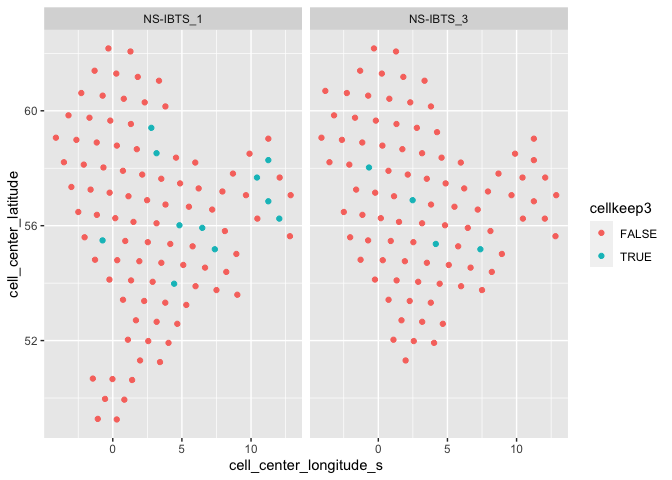
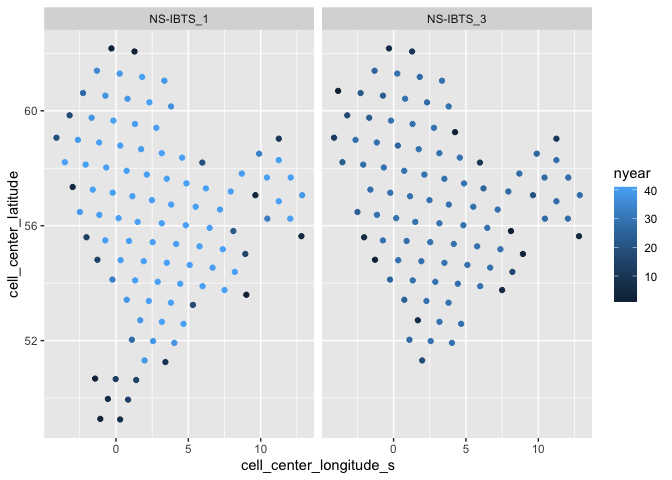
North Sea: add plot of worst-to-best sampled cells and years

diff --git a/data_prep_code/species/explore_NorthSea_trimming.md b/data_prep_code/species/explore_NorthSea_trimming.md
@@ -4,12 +4,16 @@ Exploring North Sea data trimming
   - [Load data](#load-data)
   - [Standardize trawl footprint](#standardize-trawl-footprint)
       - [Hex size 8](#hex-size-8)
+          - [Plot num hauls per cell and
+            year](#plot-num-hauls-per-cell-and-year)
           - [Trim out years with \<70% cells in a
             survey](#trim-out-years-with-70-cells-in-a-survey)
           - [Plot num years by cell](#plot-num-years-by-cell)
           - [Mark cells sampled \>=3x each remaining
             year](#mark-cells-sampled-3x-each-remaining-year)
       - [Hex size 7](#hex-size-7)
+          - [Plot num hauls per cell and
+            year](#plot-num-hauls-per-cell-and-year-1)
           - [Trim out years with \<70% cells in a
             survey](#trim-out-years-with-70-cells-in-a-survey-1)
           - [Plot num years by cell](#plot-num-years-by-cell-1)
@@ -157,6 +161,33 @@ unique_latlon[,cell_center_longitude_s := cellcenters$lon_deg][,cell_center_lati
 FishGlob.dg <- merge(FishGlob, unique_latlon, by = c("latitude", "longitude_s"), all.x = TRUE)
 ```
 
+### Plot num hauls per cell and year
+
+``` r
+# make a list of all unique year x cell x survey
+year_cell_count.dt <- as.data.table(expand.grid(cell = unique(FishGlob.dg$cell), 
+                                                year = unique(FishGlob.dg$year), 
+                                                survey_season = unique(FishGlob.dg$survey_season))) 
+
+# calc num hauls per year x cell x survey, then merge to full list
+temp <- FishGlob.dg[, .(nhaul = length(unique(haul_id))), by = .(cell, year, survey_season)]
+year_cell_count.dt <- merge(year_cell_count.dt, temp, all.x = TRUE)
+year_cell_count.dt[is.na(nhaul), nhaul := 0] # fill in for year x cell x survey that aren't present
+
+year_order <- year_cell_count.dt[, .(avehaul = mean(nhaul)), by = year][order(avehaul),]$year
+cell_order <- year_cell_count.dt[, .(avehaul = mean(nhaul)), by = cell][order(avehaul),]$cell
+
+year_cell_count.dt[, year := factor(year, levels = year_order)]
+year_cell_count.dt[, cell := factor(cell, levels = cell_order)]
+
+ggplot(year_cell_count.dt[nhaul > 0,], aes(year, cell, color = nhaul)) +
+  geom_point()+ 
+  theme(axis.text.x = element_text(angle = 90, vjust = 0.5, hjust=1),
+        axis.text.y = element_text(size = 4)) 
+```
+
+![](explore_NorthSea_trimming_files/figure-gfm/unnamed-chunk-1-1.png)<!-- -->
+
 ### Trim out years with \<70% cells in a survey
 
 yearkeep70 column == FALSE for years to trim out
@@ -187,7 +218,7 @@ ggplot(yearcell_table, aes(year, cell_center_latitude, color = nhaul)) +
   facet_grid(~survey_season)
 ```
 
-![](explore_NorthSea_trimming_files/figure-gfm/unnamed-chunk-1-1.png)<!-- -->
+![](explore_NorthSea_trimming_files/figure-gfm/unnamed-chunk-2-1.png)<!-- -->
 
 ``` r
 # color by keep or not at 70% threshold
@@ -196,7 +227,7 @@ ggplot(yearcell_table, aes(year, cell_center_latitude, color = yearkeep70)) +
   facet_grid(~survey_season)
 ```
 
-![](explore_NorthSea_trimming_files/figure-gfm/unnamed-chunk-1-2.png)<!-- -->
+![](explore_NorthSea_trimming_files/figure-gfm/unnamed-chunk-2-2.png)<!-- -->
 
 ### Plot num years by cell
 
@@ -213,7 +244,7 @@ ggplot(cell_table, aes(cell_center_longitude_s, cell_center_latitude, color = ny
   facet_grid(~survey_season)
 ```
 
-![](explore_NorthSea_trimming_files/figure-gfm/unnamed-chunk-2-1.png)<!-- -->
+![](explore_NorthSea_trimming_files/figure-gfm/unnamed-chunk-3-1.png)<!-- -->
 
 ``` r
 ggplot(cell_table, aes(cell_center_longitude_s, cell_center_latitude, color = allyrs)) +
@@ -221,7 +252,7 @@ ggplot(cell_table, aes(cell_center_longitude_s, cell_center_latitude, color = al
   facet_grid(~survey_season)
 ```
 
-![](explore_NorthSea_trimming_files/figure-gfm/unnamed-chunk-2-2.png)<!-- -->
+![](explore_NorthSea_trimming_files/figure-gfm/unnamed-chunk-3-2.png)<!-- -->
 
 ### Mark cells sampled \>=3x each remaining year
 
@@ -250,7 +281,7 @@ ggplot(FishGlob.cell[yearkeep70 == TRUE][!duplicated(cbind(cell, survey_season))
   facet_grid(~survey_season)
 ```
 
-![](explore_NorthSea_trimming_files/figure-gfm/unnamed-chunk-3-1.png)<!-- -->
+![](explore_NorthSea_trimming_files/figure-gfm/unnamed-chunk-4-1.png)<!-- -->
 
 ## Hex size 7
 
@@ -271,6 +302,35 @@ unique_latlon7[,cell_center_longitude_s := cellcenters7$lon_deg][,cell_center_la
 #link centers back to main data table
 FishGlob.dg7 <- merge(FishGlob, unique_latlon7, by = c("latitude", "longitude_s"), all.x = TRUE)
 ```
+
+### Plot num hauls per cell and year
+
+``` r
+# make a list of all unique year x cell x survey
+year_cell_count.dt7 <- as.data.table(expand.grid(cell = unique(FishGlob.dg7$cell), 
+                                                year = unique(FishGlob.dg7$year), 
+                                                survey_season = unique(FishGlob.dg7$survey_season))) 
+
+# calc num hauls per year x cell x survey, then merge to full list
+temp7 <- FishGlob.dg7[, .(nhaul = length(unique(haul_id))), by = .(cell, year, survey_season)]
+year_cell_count.dt7 <- merge(year_cell_count.dt7, temp7, all.x = TRUE)
+year_cell_count.dt7[is.na(nhaul), nhaul := 0] # fill in for year x cell x survey that aren't present
+
+# calculate the most to least sampled cells and years
+year_order7 <- year_cell_count.dt7[, .(avehaul = mean(nhaul)), by = year][order(avehaul),]$year
+cell_order7 <- year_cell_count.dt7[, .(avehaul = mean(nhaul)), by = cell][order(avehaul),]$cell
+
+# set the factor order by ave number of hauls
+year_cell_count.dt7[, year := factor(year, levels = year_order7)]
+year_cell_count.dt7[, cell := factor(cell, levels = cell_order7)]
+
+ggplot(year_cell_count.dt7[nhaul > 0,], aes(year, cell, color = nhaul)) +
+  geom_point()+ 
+  theme(axis.text.x = element_text(angle = 90, vjust = 0.5, hjust=1),
+        axis.text.y = element_text(size = 4)) 
+```
+
+![](explore_NorthSea_trimming_files/figure-gfm/unnamed-chunk-5-1.png)<!-- -->
 
 ### Trim out years with \<70% cells in a survey
 
@@ -302,7 +362,7 @@ ggplot(yearcell_table7, aes(year, cell_center_latitude, color = nhaul)) +
   facet_grid(~survey_season)
 ```
 
-![](explore_NorthSea_trimming_files/figure-gfm/unnamed-chunk-4-1.png)<!-- -->
+![](explore_NorthSea_trimming_files/figure-gfm/unnamed-chunk-6-1.png)<!-- -->
 
 ``` r
 # color by keep or not at 70% threshold
@@ -311,7 +371,7 @@ ggplot(yearcell_table7, aes(year, cell_center_latitude, color = yearkeep70)) +
   facet_grid(~survey_season)
 ```
 
-![](explore_NorthSea_trimming_files/figure-gfm/unnamed-chunk-4-2.png)<!-- -->
+![](explore_NorthSea_trimming_files/figure-gfm/unnamed-chunk-6-2.png)<!-- -->
 
 ### Plot num years by cell
 
@@ -328,7 +388,7 @@ ggplot(cell_table7, aes(cell_center_longitude_s, cell_center_latitude, color = n
   facet_grid(~survey_season)
 ```
 
-![](explore_NorthSea_trimming_files/figure-gfm/unnamed-chunk-5-1.png)<!-- -->
+![](explore_NorthSea_trimming_files/figure-gfm/unnamed-chunk-7-1.png)<!-- -->
 
 ``` r
 ggplot(cell_table7, aes(cell_center_longitude_s, cell_center_latitude, color = allyrs)) +
@@ -336,7 +396,7 @@ ggplot(cell_table7, aes(cell_center_longitude_s, cell_center_latitude, color = a
   facet_grid(~survey_season)
 ```
 
-![](explore_NorthSea_trimming_files/figure-gfm/unnamed-chunk-5-2.png)<!-- -->
+![](explore_NorthSea_trimming_files/figure-gfm/unnamed-chunk-7-2.png)<!-- -->
 
 ### Mark cells sampled \>=3x each remaining year
 
@@ -365,4 +425,4 @@ ggplot(FishGlob.cell7[yearkeep70 == TRUE][!duplicated(cbind(cell, survey_season)
   facet_grid(~survey_season)
 ```
 
-![](explore_NorthSea_trimming_files/figure-gfm/unnamed-chunk-6-1.png)<!-- -->
+![](explore_NorthSea_trimming_files/figure-gfm/unnamed-chunk-8-1.png)<!-- -->
